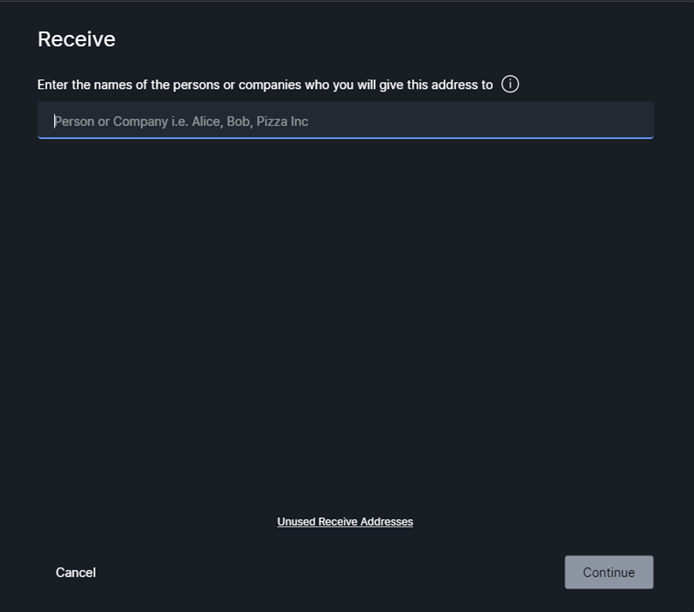
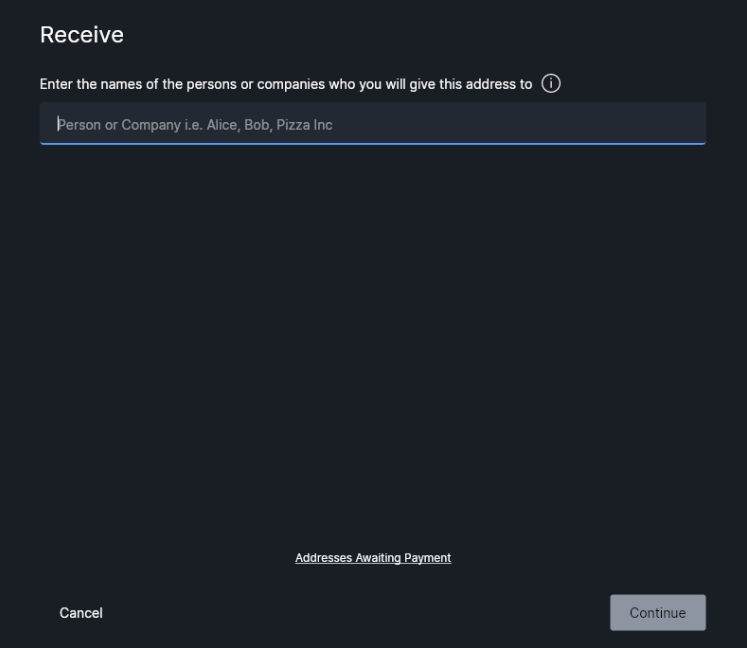
Addresses Awaiting Payment
rename from unused receive address to Address awaiting payment

diff --git a/docs/FAQ/FAQ-UseWasabi.md b/docs/FAQ/FAQ-UseWasabi.md
@@ -363,10 +363,10 @@ This is a good feature to help protect you against [address reuse](/why-wasabi/A
 
 ### Where can I find previously generated addresses?
 
-Generated addresses which haven't received any funds yet, are displayed at the `Unused Receive Addresses` list.
-Click on the `Receive` button > `Unused Receive Addresses`
+Generated addresses which haven't received any funds yet, are displayed at the `Addresses Awaiting Payment` list.
+Click on the `Receive` button > `Addresses Awaiting Payment`
 
-![Unused Receive Addresses](/UnusedReceiveAddresses.png "Unused Receive Addresses")
+![Addresses Awaiting Payment](/AddressesAwaitingPayment.png "Addresses Awaiting Payment")
 
 ### What is the gap limit?
 
@@ -425,12 +425,12 @@ or:
 
 ### How can I change the label of my receive address?
 
-You can change the label of your unused receive address by clicking on the edit icon.
+You can change the label of your _Address Awaiting Payment_ address by clicking on the edit icon.
 This is useful when you have generated a receiving address with a specific label, but then the sender (anyone that knows this address is yours) has changed.
 Take care with whom you have shared this address, because if you send it to several people, they all know this address belongs to you, and they might all send many coins to the same address.
 This is very bad for your privacy because of [address reuse](/why-wasabi/AddressReuse.md), and it confuses you with the labeling of each unique coin.
 
-![Edit Address Label](/UnusedReceiveAddressesEditLabel.png "Edit Address Label")
+![Edit Address Label](/AddressesAwaitingPaymentEditLabel.png "Edit Address Label")
 
 ### How can I edit the labels of my address after a transaction has gone through?
 
@@ -464,14 +464,14 @@ To check Bech32 adoption and wallets/exchanges support you can follow the [Bitco
 ### Where can I find my address QR code?
 
 When a new address is generated the QR code, address and label are displayed.
-The QR code of an already generated address can be found at the `Unused Receive Addresses` list.
-Click on the QR code icon at the Unused Receive Addresses.
+The QR code of an already generated address can be found at the `Addresses Awaiting Payment` list.
+Click on the QR code icon at the _Addresses Awaiting Payment_.
 
-![QR code icon](/UnusedReceiveAddressesQRCodeIcon.png "QR code icon")
+![QR code icon](/AddressesAwaitingPaymentQRCodeIcon.png "QR code icon")
 
 The QR Code is displayed and can be saved as a png file by clicking on the Save icon, which appears on hover.
 
-![Unused Receive Address](/UnusedReceiveAddress.png "Unused Receive Address")
+![Address Awaiting Payment](/AddressAwaitingPayment.png "Address Awaiting Payment")
 
 ### What derivation paths does Wasabi use?
 
@@ -1162,7 +1162,7 @@ Read more [here](/using-wasabi/ColdWasabi.md#connecting-coldcard-via-sd-card).
 ### How can I generate a receiving address of my hardware wallet?
 
 In Wasabi Wallet you load your previously imported wallet (from Wasabi skeleton, or USB detection) and go to the `Receive` dialog, here you enter a label for the observers of the incoming transaction and click `Continue`.
-In the receive dialog, previously generated addresses (which haven't received any funds yet) can be viewed and copied at `Unused Receive Addresses`.
+In the receive dialog, previously generated addresses (which haven't received any funds yet) can be viewed and copied at `Addresses Awaiting Payment`.
 
 Read more [here](/using-wasabi/ColdWasabi.md).
 

diff --git a/docs/why-wasabi/AddressReuse.md b/docs/why-wasabi/AddressReuse.md
@@ -53,7 +53,7 @@ This is someone intentionally deanonymizing himself, and he might have quite dub
 
 Wasabi encourages the user to not reuse addresses.
 You always get a new Bitcoin address whenever you generate one.
-Previously generated addresses, which haven't received bitcoin yet, are displayed at `Unused Receive Addresses`.
-An address is automatically removed from the `Unused Receive Addresses` list once that address receives funds.
+Previously generated addresses, which haven't received bitcoin yet, are displayed at `Addresses Awaiting Payment`.
+An address is automatically removed from the `Addresses Awaiting Payment` list once that address receives funds.
 
 To protect against forced address reuse attack (Dusting), Wasabi has a modifiable [dust limit](/FAQ/FAQ-UseWasabi.md#what-is-the-dust-threshold), where the wallet does not show coins below a certain threshold value.

diff --git a/docs/using-wasabi/Receive.md b/docs/using-wasabi/Receive.md
@@ -22,7 +22,7 @@ If you have already used a label before, simply choose it from the suggested lab
 
 4. Press `Continue` and the wallet will generate a new address. 
 
-![Bitcoin address in Wasabi](/UnusedReceiveAddress.png "Bitcoin address in Wasabi")
+![Bitcoin address in Wasabi](/AddressAwaitingPayment.png "Bitcoin address in Wasabi")
 
 ## Bitcoin public keys and addresses
 
@@ -49,7 +49,7 @@ This makes it obvious for anyone that this one entity [you] owns all these coins
 The first rule of Bitcoin privacy is [never reuse addresses](/why-wasabi/AddressReuse.md)!
 
 :::tip
-This is why Wasabi removes the address from the `Unused Receive Address` list as soon as it has received a coin.
+This is why Wasabi removes the address from the `Addresses Awaiting Payment` list as soon as it has received a coin.
 :::
 
 ## The importance of labeling
